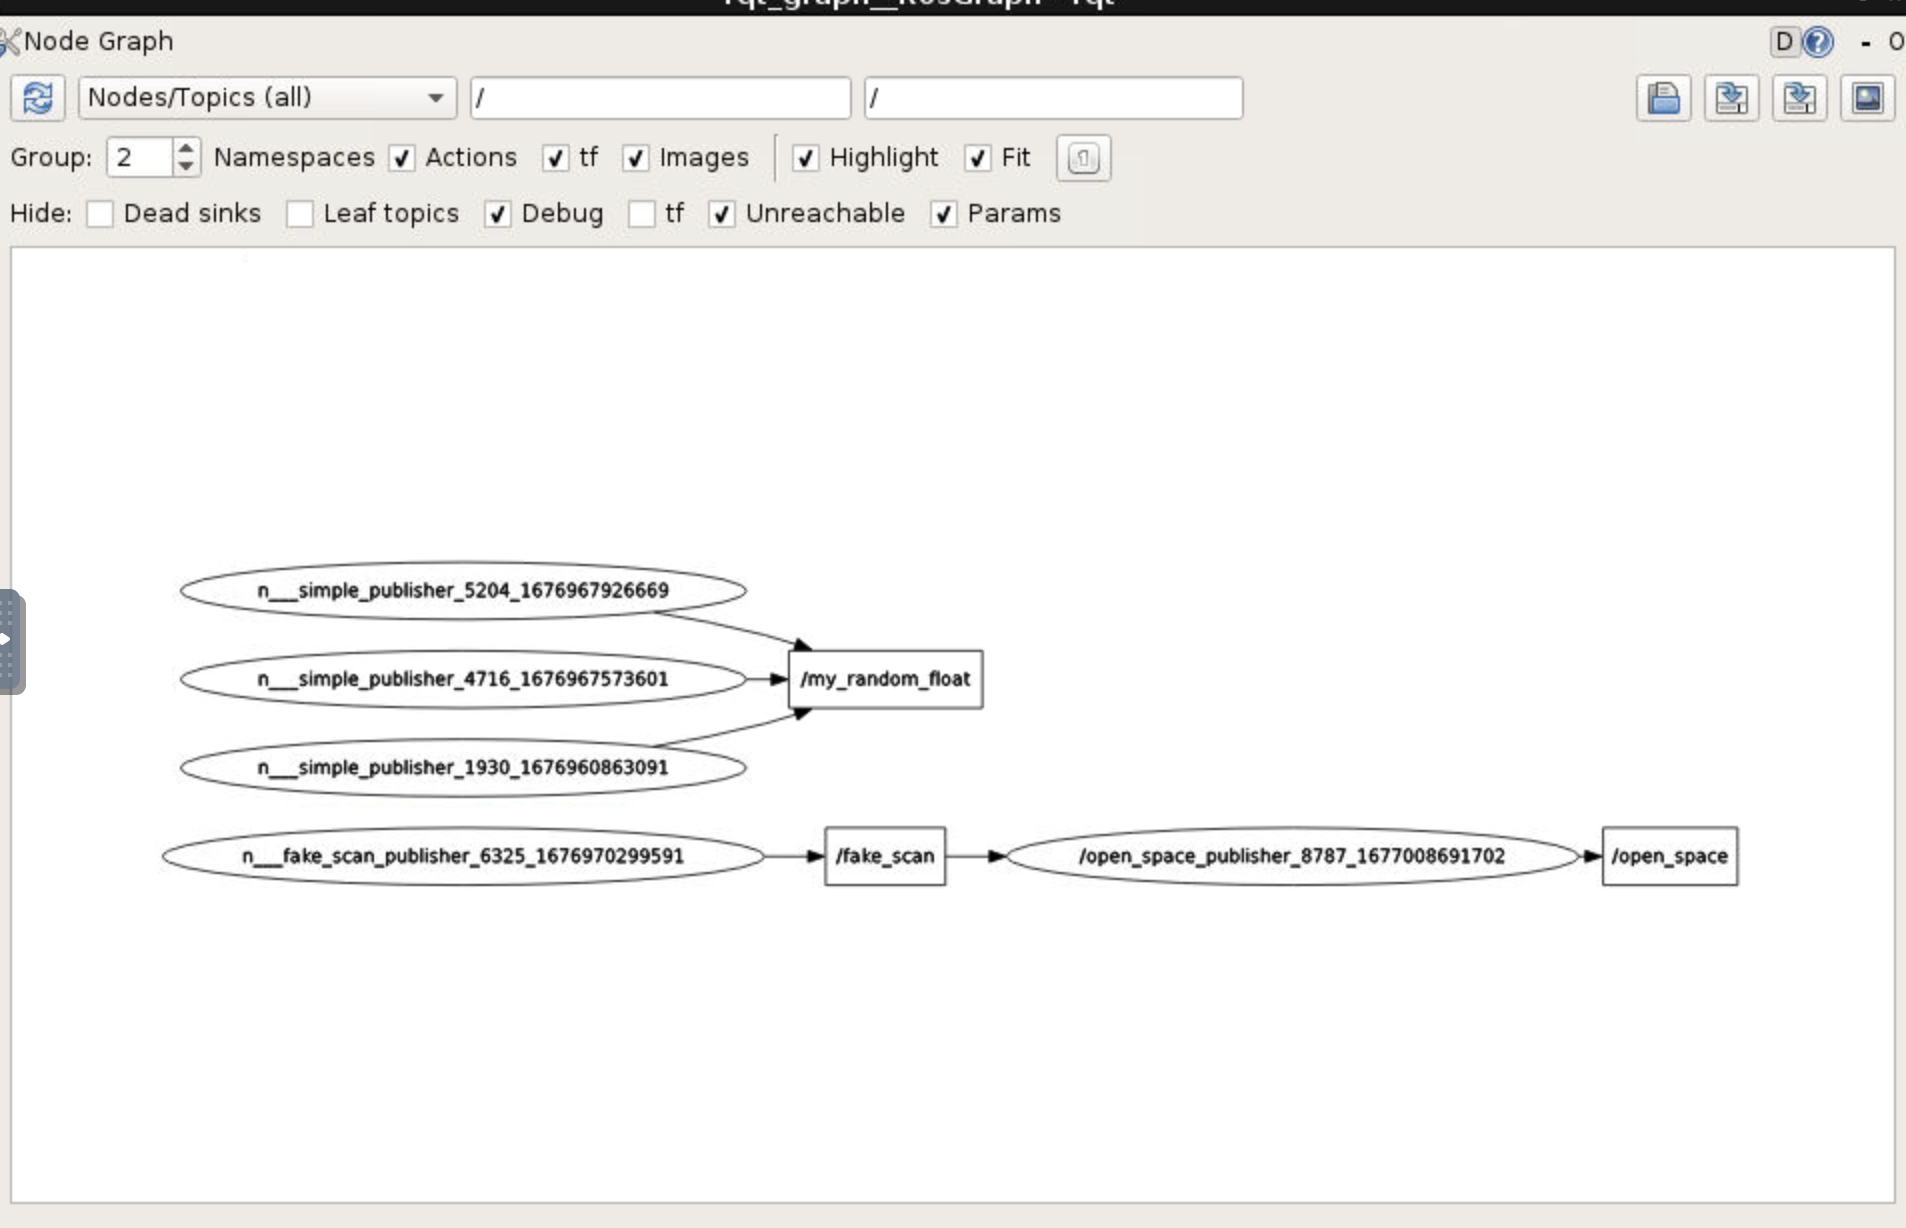
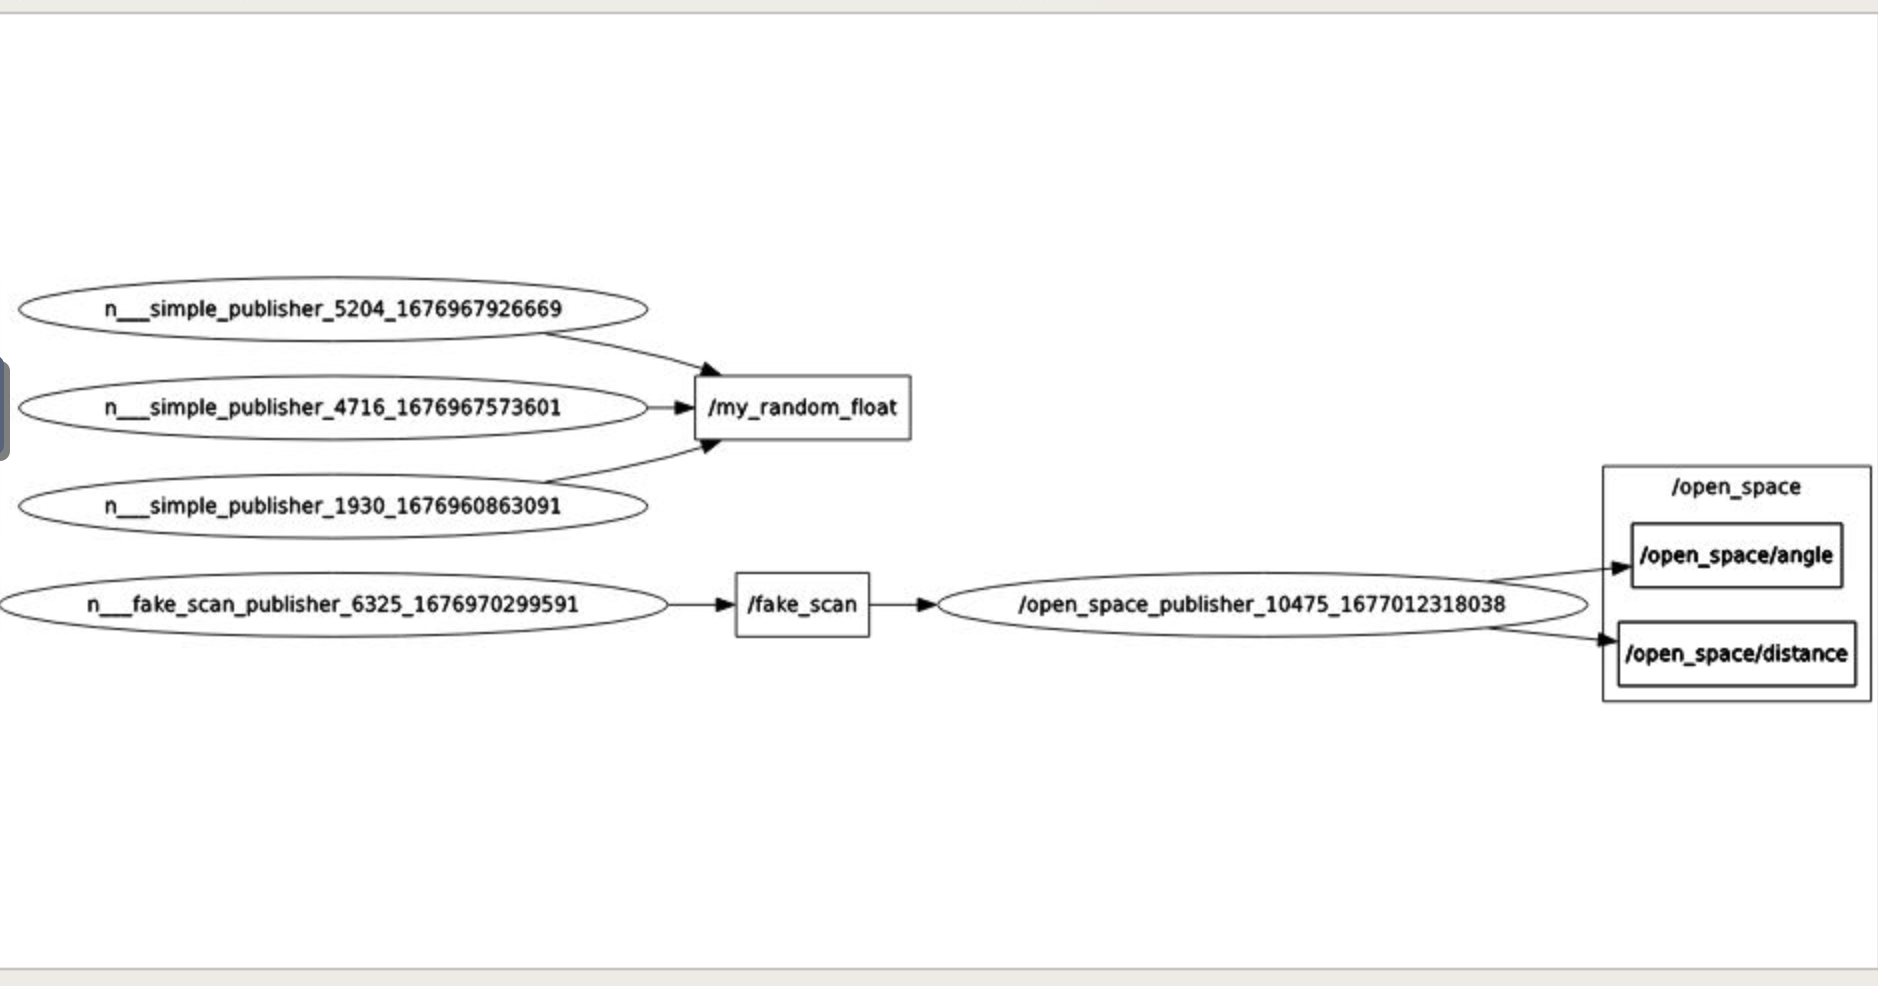
after q3

Changed region(s): [[0.0, 0.1826, 1.0, 1.0], [0.0, 0.0, 1.0, 0.213]]

diff --git a/scripts/open_space_publisher.py b/scripts/open_space_publisher.py
@@ -6,8 +6,8 @@ from sensor_msgs.msg import LaserScan
 from std_msgs.msg import Float32
 
 #pub = rospy.Publisher(rospy.get_param('open_space/pub_topic', 'open_space'), OpenSpace, queue_size=20)
-pub1 = rospy.Publisher(rospy.get_param('open_space/angle', 'open_space'), Float32, queue_size=20)
-pub2 = rospy.Publisher(rospy.get_param('open_space/distance', 'open_space'), Float32, queue_size=20)
+pub1 = rospy.Publisher('open_space/angle', Float32, queue_size=10)
+pub2 = rospy.Publisher('open_space/distance', Float32, queue_size=10)
 
 def callback(scan):
     longest_value = max(scan.ranges) 
@@ -25,8 +25,7 @@ def callback(scan):
 
 def listen():
     rospy.init_node('open_space_publisher', anonymous = True)
-    rate = rospy.Rate(20)
-    rospy.Subscriber(rospy.get_param('open_space/sub_topic', 'fake_scan'), LaserScan, callback)
+    rospy.Subscriber('fake_scan', LaserScan, callback)
     rospy.spin() 
 
 
